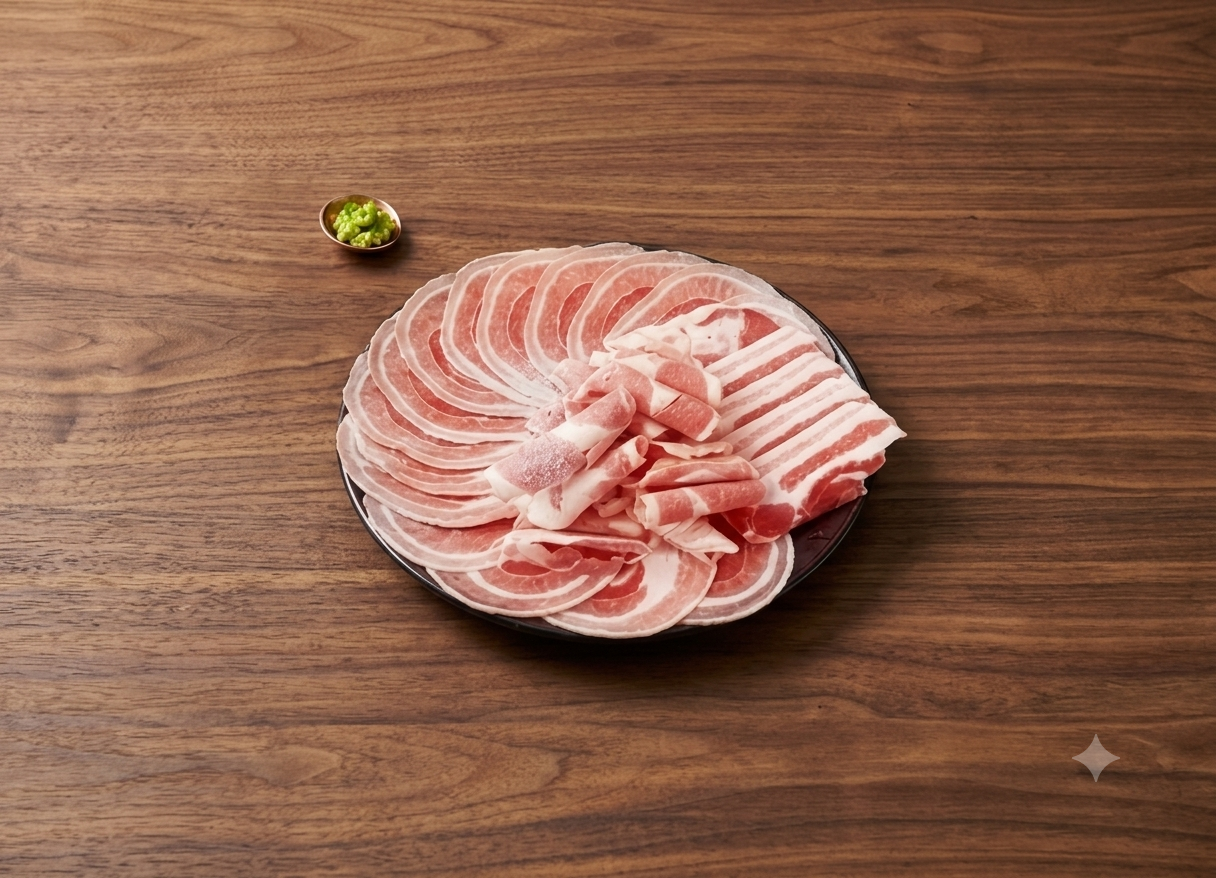
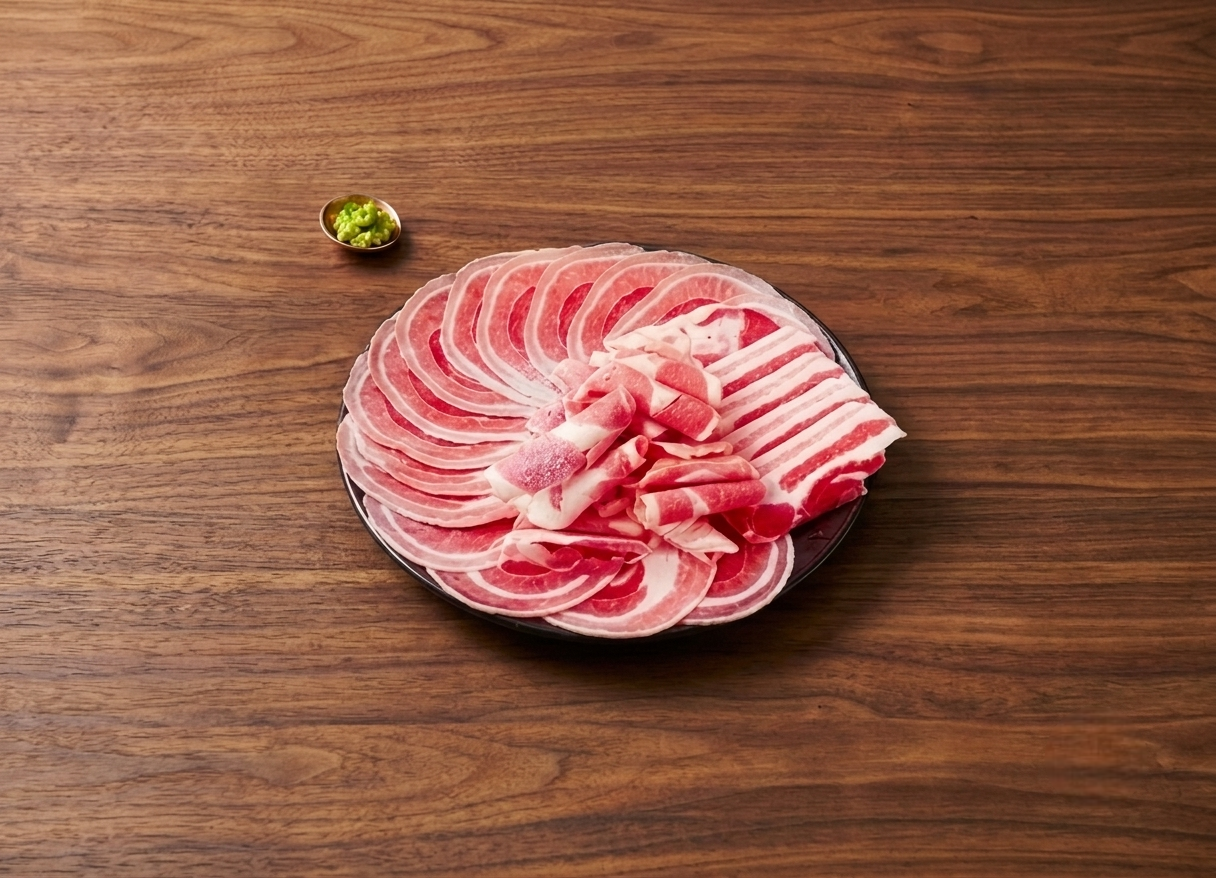
0007 히어로 워드마크 임팩트 강화, 메뉴 이미지 png 전환, 푸터 정렬 수정
- 히어로 워드마크: 96px 상한 규칙의 명시적 예외로 132px 복원, 팝 인트로 3초 무한 반복
- 02 메뉴: 고기 9종 이미지를 카탈로그 jpg에서 AI 생성 png(나무 테이블 스타일)로 전량 교체
- 메뉴 카드 호버 확대 스케일 1.05 → 1.15
- 푸터 로고/텍스트/링크 수평 정렬(align-items: flex-end → center)
- docs/design.md 및 .claude/memory/ 관련 메모리 갱신

Changed region(s): [[0.2812, 0.3075, 0.75, 0.7073], [0.875, 0.8303, 0.9375, 0.8918]]

diff --git a/0007/assets/css/style.css b/0007/assets/css/style.css
@@ -113,7 +113,7 @@ header.nav.nav-open .nav-toggle span:nth-child(3){ transform:translateY(-7px) ro
 .hero-center{ position:relative; z-index:5; text-align:center; max-width:900px; margin:0 auto; }
 .hero-eyebrow2{ color:var(--text-dim); font-size:clamp(18px,1.25vw,20px); margin-bottom:24px; letter-spacing:0.01em; }
 .hero-wordmark{
-  font-weight:900; font-size:clamp(52px, 11vw, 96px); line-height:1;
+  font-weight:900; font-size:clamp(72px, 15vw, 132px); line-height:1;
   display:inline-block;
   background:linear-gradient(115deg,
     #8E6E1E 0%, var(--gold) 20%, var(--gold-light) 38%,
@@ -123,11 +123,12 @@ header.nav.nav-open .nav-toggle span:nth-child(3){ transform:translateY(-7px) ro
   /* 아래 붉은 웨이브 언더라인(.hero-underline)을 삭제하면서, 그 요소가 갖고 있던
      아래 여백 28px 을 워드마크로 옮겼다(원래 값 2px). */
   letter-spacing:-0.02em; margin-bottom:28px;
-  /* 진입 시 화면을 꽉 채울 만큼 크게 나타났다가 빠르게 제자리 크기로 줄어든 뒤,
-     이어서 그라디언트가 계속 흐르며 반짝인다. wordmarkIntro 키프레임은 재사용을
-     위해 animations.css 로 분리했다(index.html 에서 style.css 보다 먼저 로드). */
+  /* 화면을 꽉 채울 만큼 크게 나타났다가 빠르게 제자리 크기로 줄어들고, 이어서
+     그라디언트가 계속 흐르며 반짝인다. 이 팝 인트로는 3s 마다 무한 반복된다(2026-09-03).
+     wordmarkIntro 키프레임은 재사용을 위해 animations.css 로 분리했다(index.html 에서
+     style.css 보다 먼저 로드). */
   animation:
-    wordmarkIntro .85s cubic-bezier(0.16,1,0.3,1) both,
+    wordmarkIntro 3s cubic-bezier(0.16,1,0.3,1) infinite,
     wordmarkShine 5s linear infinite;
 }
 .hero-sub2{ color:var(--text); font-size:clamp(18px,1.55vw,22px); line-height:1.6; margin-bottom:38px; }
@@ -330,7 +331,7 @@ section{ padding:120px 0; position:relative; scroll-margin-top:84px; }
 .meat-grid{ display:grid; grid-template-columns:repeat(3,1fr); gap:2px; margin-top:16px; }
 .meat-card{ position:relative; background:var(--bg-card); overflow:hidden; aspect-ratio:5/3.4; }
 .meat-card img{ width:100%; height:100%; object-fit:cover; filter:saturate(1.05); transition:transform .5s ease; }
-.meat-card:hover img{ transform:scale(1.05); }
+.meat-card:hover img{ transform:scale(1.15); }
 .meat-label{ position:absolute; left:0; right:0; bottom:0; padding:14px 16px 12px; background:linear-gradient(to top, rgba(0,0,0,0.75), transparent); font-size:18px; color:var(--text); font-weight:600; letter-spacing:0.01em; }
 @media (max-width:1024px){ .meat-grid{grid-template-columns:repeat(2,1fr);} }
 
@@ -633,7 +634,7 @@ textarea{ resize:vertical; min-height:110px; }
 
 /* FOOTER */
 footer{ position:relative; z-index:1; background:#0A0806; border-top:1px solid var(--line); padding:56px 0 40px; }
-.footer-grid{ display:flex; justify-content:space-between; align-items:flex-end; flex-wrap:wrap; gap:24px;}
+.footer-grid{ display:flex; justify-content:space-between; align-items:center; flex-wrap:wrap; gap:24px;}
 .footer-logo{ display:flex; align-items:center; gap:10px; }
 .footer-logo img{ height:28px; border-radius:3px; }
 .footer-logo span{ color:var(--gold-light); font-weight:700; font-size:18px; }

diff --git a/0007/assets/css/animations.css b/0007/assets/css/animations.css
@@ -3,11 +3,12 @@
    해당 컴포넌트 규칙에서 한다. */
 
 /* 큰 배율로 나타났다가 빠르게 제자리 크기로 줄어드는 임팩트용 인트로.
-   사용처: .hero-wordmark */
+   3s 주기로 무한 반복하되, 팝 동작 자체는 원래와 동일하게 약 0.85s 안에 끝내고
+   나머지는 scale(1)/opacity:1 로 유지한다(28.3% = 0.85s/3s). 사용처: .hero-wordmark */
 @keyframes wordmarkIntro{
   0%{ transform:scale(4.4); opacity:0; }
-  55%{ opacity:1; }
-  100%{ transform:scale(1); opacity:1; }
+  15.6%{ opacity:1; }
+  28.3%, 100%{ transform:scale(1); opacity:1; }
 }
 
 /* 골드 그라디언트가 좌→우로 계속 흐르는 반짝임.

diff --git a/0007/docs/design.md b/0007/docs/design.md
@@ -128,12 +128,14 @@
   프로젝트에서 Pretendard가 아닌 폰트를 쓰는 **유일한 예외**다 — 세리프 폰트 금지 규칙과는
   별개(디스플레이용 고딕 계열이라 저촉되지 않음)다. 섹션 타이틀 밖(본문, 라벨, 버튼 등)으로는
   확장하지 않는다.
-- **크기 범위 규칙(2026-09-02 확정)**: **`font-size` 는 항상 18px 이상 96px 이하다.** 라벨·배지·
-  각주·폼 힌트처럼 전통적으로 "잔글씨"였던 자리도 예외 없이 18px 이상이고, 히어로 워드마크처럼
-  가장 큰 글자도 96px 을 넘지 않는다. 새 요소를 추가할 때 이 범위를 벗어나는 값을 쓰고 싶다면 —
-  쓰지 말고 18~96px 안으로 맞출 것. 이 규칙 때문에 조정된 것들:
+- **크기 범위 규칙(2026-09-02 확정, 2026-09-03 `.hero-wordmark` 예외 추가)**: **`font-size` 는
+  18px 이상 96px 이하다.** 라벨·배지·각주·폼 힌트처럼 전통적으로 "잔글씨"였던 자리도 예외 없이
+  18px 이상이다. 새 요소를 추가할 때 이 범위를 벗어나는 값을 쓰고 싶다면 — 쓰지 말고 18~96px
+  안으로 맞출 것. 이 규칙 때문에 조정된 것들:
   - `.contact-line .k` 너비 90px → 110px (라벨이 18px 로 커져서)
-  - `.hero-wordmark` 상한 132px → 96px (원래 대형 화면에서 최대 132px 까지 커졌었다)
+  - `.hero-wordmark` 상한은 원래 132px → 96px 로 줄었다가(2026-09-02), 사용자가 임팩트를 위해
+    96px 상한 예외를 명시적으로 요청해 2026-09-03 에 132px 로 되돌아갔다 — 이 요소만의 유일한
+    96px 초과 예외이며, 다른 요소에 이 예외를 유추 확장하지 않는다.
 - **스케일**: 반응형 요소는 `clamp(min, vw, max)`(단, `min` ≥ 18px, `max` ≤ 96px), 고정 요소는
   px 리터럴(18~96px)을 쓴다 — 미디어쿼리로 폰트 크기를 계단식으로 바꾸지 않는다.
 
@@ -142,7 +144,7 @@
 | 요소 | 값 | 굵기 |
 |---|---|---|
 | 섹션 타이틀 전체(`.comp-title`, `.profit-head h2`, `.section-head h2`, `.inquiry-left h3`) | `clamp(34px, 5vw, 64px)` | 400(`RixYeoljeongdo`) |
-| 히어로 워드마크(`.hero-wordmark`) | `clamp(52px, 11vw, 96px)` | 900(Pretendard — 5개 섹션에 속하지 않아 RixYeoljeongdo 예외 대상 아님) |
+| 히어로 워드마크(`.hero-wordmark`) | `clamp(72px, 15vw, 132px)`(96px 상한 규칙의 유일한 예외, 2026-09-03) | 900(Pretendard — 5개 섹션에 속하지 않아 RixYeoljeongdo 예외 대상 아님) |
 | 히어로 서브카피(`.hero-sub2`) | `clamp(18px, 1.55vw, 22px)` | 400 |
 | 히어로 eyebrow(`.hero-eyebrow2`) | `clamp(18px, 1.25vw, 20px)` | 400 |
 | 버튼(`.btn-primary`, `.btn-ghost`) | `clamp(18px, 1.15vw, 19px)` | 700 / 400 |
@@ -417,9 +419,11 @@ Next.js + Supabase 마이그레이션 예정).
 - 반투명한 어두운 판이 필요하면 배경에만 알파를 준 `rgba()`/그라디언트를 쓴다.
 
 ### Don't
-- **18px 미만 또는 96px 초과 `font-size` 를 쓰지 않는다** — 각주·배지·폼 라벨처럼 원래 작게 쓰던
-  자리도, 히어로 워드마크처럼 원래 크게 쓰던 자리도 예외 없다. 좁은 고정폭 요소(`.contact-line .k`
-  등)에 18px 텍스트가 안 들어가면 폭을 늘리지, 글자를 줄이지 않는다.
+- **18px 미만 `font-size` 를 쓰지 않는다** — 각주·배지·폼 라벨처럼 원래 작게 쓰던 자리도 예외
+  없다. 좁은 고정폭 요소(`.contact-line .k` 등)에 18px 텍스트가 안 들어가면 폭을 늘리지, 글자를
+  줄이지 않는다. **96px 초과도 쓰지 않는다 — 단, `.hero-wordmark` 는 2026-09-03 에 사용자가
+  명시적으로 96px 상한 예외를 요청해 `132px` 로 되돌아간 유일한 예외다**(Typography 절 참고).
+  다른 요소에 이 예외를 유추 확장하지 않는다.
 - **`opacity` 를 컨테이너 전체에 걸어 반투명 배경을 만들지 않는다** — 자식 텍스트/아이콘까지
   같이 흐려진다. 배경 레이어에만 알파를 준다.
 - **영수증(`.receipt-body`)에 `box-shadow` 를 쓰지 않는다** — 스캘럽 틈으로 그림자가 새어 회색 띠가

diff --git a/0007/.claude/memory/feedback_font-size-rule-exception.md b/0007/.claude/memory/feedback_font-size-rule-exception.md
@@ -1,0 +1,31 @@
+---
+name: feedback_font-size-rule-exception
+description: "확정된 18~96px 폰트 크기 규칙(예외 없음)에 사용자가 예외를 요청할 때의 대응 절차"
+metadata:
+  type: feedback
+---
+
+`docs/design.md`/CLAUDE.md에 "font-size는 18px 이상 96px 이하, 예외 없음"이라고 명시된 규칙이
+있는데도, 2026-09-03에 사용자가 히어로 워드마크(`.hero-wordmark`)를 96px보다 더 키워달라고
+요청했다. 이때 취한 절차와, 그게 맞았다는 것(사용자가 그대로 승인)이 이 메모리의 핵심이다.
+
+**절차**:
+1. 규칙 위반이 되는 요청이라는 걸 먼저 사용자에게 알린다(현재 값이 이미 규칙 상한임을 설명).
+2. `docs/design.md`를 다시 훑어 이 요소에 대한 **과거 이력**이 있는지 확인한다 — 있었다
+   (`.hero-wordmark` 상한이 원래 132px였다가 96px 규칙 때문에 줄었다는 기록이 남아 있었음).
+   이 이력을 발견한 뒤에는 "규칙을 깰까요?" 정도로 뭉뚱그려 묻지 않고, "원래 132px였는데
+   그 값으로 되돌릴까요, 다른 값을 원하세요?"처럼 **구체적 선택지**로 다시 물었다.
+3. 사용자가 예외를 확정하면(AskUserQuestion으로 확인), 코드만 고치는 게 아니라
+   **`docs/design.md`의 규칙 서술 자체(Typography 절 + Do/Don't 절)를 갱신**해서 "이 요소만의
+   유일한 예외"라고 명시했다 — 그래야 다음 세션이 규칙 위반으로 오인해 되돌리지 않는다.
+
+**Why**: 이 프로젝트는 "18~96px 예외 없음"을 2026-09-02에 사용자가 직접 확정한 규칙이라
+말 그대로 따르는 게 기본값이지만, 사용자 본인이 그 규칙의 예외를 원한다면 그건 규칙 위반이
+아니라 규칙 갱신이다. 다만 조용히 갯값만 바꾸면 규칙 문서와 실제 코드가 어긋나 다음 세션에서
+"규칙 위반이니 되돌려야 하나?" 하는 혼란이 생긴다.
+
+**How to apply**: 이 프로젝트에서 "확정됐다"/"예외 없다"고 문서화된 규칙(폰트 크기 18~96px,
+브레이크포인트 1024px 단일, 키프레임은 전부 animations.css 등)에 대해 그 규칙을 깨는 요청을
+받으면 — 곧바로 거부하지도, 곧바로 순응하지도 말고: (a) 규칙 위반임을 알리고, (b) 관련 이력을
+찾아 구체적 대안을 제시하고, (c) 확정되면 규칙 문서 자체를 갱신해 예외를 기록한다.
+[[gopumgyeok-design-system]]의 `.hero-wordmark` 96px 예외 참고.

diff --git a/0007/.claude/memory/feedback_commit-all-means-literal.md b/0007/.claude/memory/feedback_commit-all-means-literal.md
@@ -1,0 +1,25 @@
+---
+name: feedback_commit-all-means-literal
+description: "사용자가 '모든 변경 파일 커밋해줘'라고 하면 디버그/스크래치 파일까지 포함한 문자 그대로의 전체를 뜻한다"
+metadata:
+  type: feedback
+---
+
+2026-09-03, "현재까지 작업한 모든 변경 파일 모두 커밋/푸쉬해줘" 요청에 처음엔 판단을 갈라서
+커밋했다 — 1차로 `git status`의 "M"(이미 추적 중) 파일 + 명백히 사이트에서 참조되는 신규 에셋
+(폰트, `fonts.css`/`init.css`, 참조되는 png)만 골라 커밋하고, `_debug_loc.html`
+(참조 안 되는 디버그 사본), `.claude/plans/`·`.claude/agent-memory/`(Claude Code 툴 내부
+스크래치), 미참조 png 샘플들은 스스로 판단해서 빼고 사용자에게 "이런 이유로 뺐다"고
+보고했다. 그런데 사용자가 바로 "모든 변경 파일 다 커밋 해줘!"라고 **다시** 요청했고, 이번엔
+남은 전부(디버그 파일·플랜·서브에이전트 메모리·미사용 이미지 포함)를 커밋했다.
+
+**Why**: 사용자는 "모든 변경 파일"을 문자 그대로의 의미로 썼다 — "프로덕션에 의미 있는 파일만"
+같은 암묵적 스코프 축소를 기대하지 않았다. 첫 판단(큐레이션)이 틀렸다기보다, 사용자가 재확인
+요청을 한 시점에서 이미 답이 나온 것 — 애매한 항목을 스스로 판단해 제외하지 말고 그대로
+포함했어야 다시 물을 필요가 없었다.
+
+**How to apply**: 이 프로젝트에서 "모든/전부 변경 파일 커밋해줘" 같은 포괄적 커밋 요청을 받으면,
+비밀값(시크릿)이 들어있는지만 확인하고 나머지는 큐레이션 없이 전부 스테이지한다. 정말 애매한
+파일(예: 대상 폴더 밖 파일, 명백히 실수로 만들어진 산출물)이 있으면 커밋 전에 목록만 짧게
+언급하고 진행하되, 사용자가 다시 "전부"라고 반복하면 그 즉시 이견 없이 포함한다.
+[[gopumgyeok-landing-project]]의 저장소 범위(`0007`은 독립 폴더) 확인과 함께 적용할 것.

diff --git a/0007/.claude/memory/gopumgyeok-brand-data.md b/0007/.claude/memory/gopumgyeok-brand-data.md
@@ -5,7 +5,7 @@ metadata:
   node_type: memory
   type: reference
   originSessionId: 64490a38-09ba-439e-83a5-66505594f155
-  modified: 2026-09-01T07:20:12.107Z
+  modified: 2026-09-03T00:00:00.000Z
 ---
 
 클라이언트 공식 인쇄 카탈로그(`고품격대패_카달로그_최종_인쇄.pdf`, 8p)에서 발췌한 실제 브랜드 데이터. 카피·수치를 새로 지어내지 말고 여기서 가져올 것([[gopumgyeok-landing-project]]).
@@ -25,3 +25,12 @@ metadata:
 - **레퍼런스 사이트**: 더맛있는족발보쌈(xn--sh1b6nw5n8pcxvw8ib.kr), 귀한족발(xn--hh0b95yusj63m.com), 치킨신드롬(chickensyndrome.co.kr)
 
 **이미지 출처**: `0007/assets/`의 44장은 전부 이 카탈로그 PDF 크롭본이다. 추출 방식 = `pymupdf`로 300%(3x) 렌더링 → PIL 좌표 크롭 → JPG 82% 최적화. 재추출이 필요하면 동일 방식을 쓰되, 원본 PDF는 이전 claude.ai 컨테이너 경로(`/mnt/user-data/uploads/`)에 있었으므로 **로컬에는 없다 — 사용자에게 다시 받아야 함**.
+
+**예외 — 02 메뉴 고기 9종은 더 이상 카탈로그 크롭이 아니다(2026-09-03).** `meat_*.jpg`(카탈로그 크롭,
+25~35KB)는 여전히 파일로 남아있지만 `data/content.json`은 전부 `meat_*.png`(나무 테이블 배경 +
+와사비 접시 + 반짝이 아이콘 스타일의 AI 생성 이미지, 개당 2.2~2.4MB)를 가리킨다 — 사용자가
+명시적으로 png 전환을 요청했고, 용량이 원본 대비 약 90배라는 점을 알린 뒤에도 그대로 진행을
+선택했다([[gopumgyeok-font-size-rule-exception]]과 같은 패턴 — 트레이드오프를 알리고 사용자
+선택을 존중). `meat_dwaeji.png`(돼지 한판)만 처음엔 없었는데 사용자가 세션 도중 직접
+파일시스템에 추가했다. 9종 총합 약 20MB로, 최적화(리사이즈/압축) 없이 그대로 배포 중 —
+[[gopumgyeok-open-issues]] 참고.

diff --git a/0007/.claude/memory/gopumgyeok-open-issues.md b/0007/.claude/memory/gopumgyeok-open-issues.md
@@ -5,7 +5,7 @@ metadata:
   node_type: memory
   type: project
   originSessionId: 64490a38-09ba-439e-83a5-66505594f155
-  modified: 2026-09-01T07:20:29.855Z
+  modified: 2026-09-03T00:00:00.000Z
 ---
 
 2026-09-01 CLI 인계 시점 기준 [[gopumgyeok-landing-project]]의 미해결 상태.
@@ -19,6 +19,10 @@ metadata:
 6. **최종 시안 미확정** — 시안A(다크 프리미엄) / 시안A_v2(=0007, 최신) / 시안B(라이트 에디토리얼) 중 클라이언트 컨펌 대기.
 7. **문의폼 완전 목업** — 제출해도 버튼 텍스트만 바뀌고 전송 없음.
 8. **이미지 저해상도** — 전부 카탈로그 PDF 크롭이라 프로덕션에선 클라이언트 고해상도 원본으로 교체하는 게 좋다([[gopumgyeok-brand-data]]).
+9. **02 메뉴 png 이미지 9종이 무압축 상태(2026-09-03 신규)** — `meat_*.png`(나무 테이블 스타일)로
+   전환하면서 개당 2.2~2.4MB, 9종 총합 약 20MB가 됐다(기존 jpg는 총 230KB 수준이었다). 리사이즈·
+   압축을 아직 안 거쳤다 — asset-optimizer 에이전트로 최적화하는 게 다음 단계. 자세한 경위는
+   [[gopumgyeok-brand-data]] 참고.
 
 **계약 범위 / 다음 단계** (디자인 맞춤제작 + 반응형 + 5섹션 + 자체 DB 수집 + 관리자모드 + 도메인 + 호스팅)
 - 확정 시안을 **Next.js + Supabase** 구조로 마이그레이션: 정적 HTML → React 컴포넌트 분해, `data/content.json` → Supabase 테이블/CMS (JSON 구조가 그대로 시드 데이터가 된다), 문의폼 → 실제 insert 연동(RLS: anon insert 허용, admin만 select/update, `@supabase/ssr` 기반).

diff --git a/0007/.claude/memory/MEMORY.md b/0007/.claude/memory/MEMORY.md
@@ -7,4 +7,6 @@
 - [헤드리스 시각 검증법](gopumgyeok-headless-verification.md) — 브라우저 확장 없음, iframe 래퍼로 찍고 숫자로 재는 법
 - [영수증 카드 구현 교훈](gopumgyeok-receipt-card.md) — 그림자는 wrapper에 drop-shadow, 절취선은 mask-image 스캘럽
 - [브랜드 원본 데이터](gopumgyeok-brand-data.md) — 슬로건·메뉴 9종·셀프바 25종·3개 매장 매출/수익률·연락처
-- [미해결 항목](gopumgyeok-open-issues.md) — 창업비용 금액 미확보, 시각검증 미완, Next.js+Supabase 마이그레이션 대기
+- [미해결 항목](gopumgyeok-open-issues.md) — 창업비용 금액 미확보, 시각검증 미완, Next.js+Supabase 마이그레이션 대기, 메뉴 png 20MB 미최적화
+- [폰트 크기 규칙 예외 처리](feedback_font-size-rule-exception.md) — "18~96px 예외 없음" 규칙을 사용자가 깨려 할 때: 이력 확인→구체적 대안 제시→규칙 문서 자체 갱신
+- ["모든 변경 파일 커밋"의 의미](feedback_commit-all-means-literal.md) — 문자 그대로 전부(디버그/스크래치 포함)이지 프로덕션 파일만 골라 커밋하는 게 아니다
